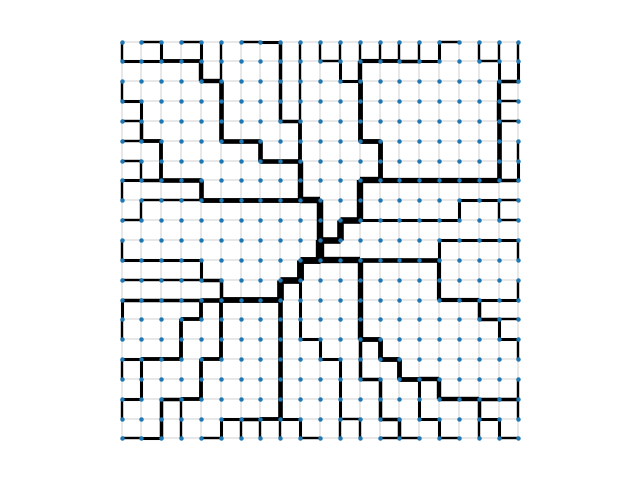
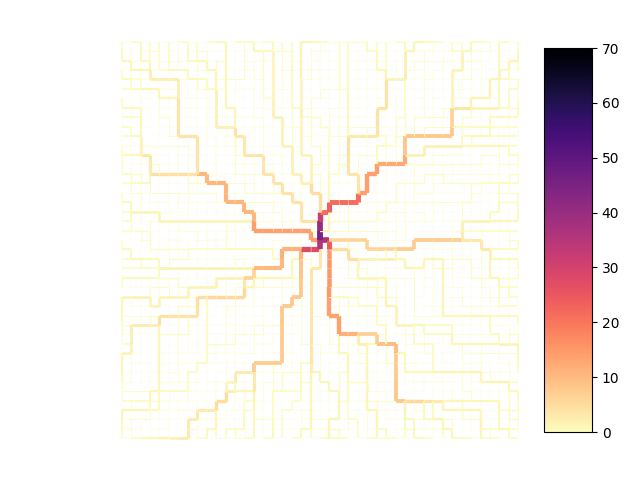
plotting flow with colour bar

Changed region(s): [[0.1875, 0.0625, 0.8125, 0.9375], [0.8438, 0.0938, 0.9688, 0.9062]]

diff --git a/Angiogenesis.py b/Angiogenesis.py
@@ -5,7 +5,7 @@ import matplotlib.pyplot as plt
 import pandas as pd
 import time
 import scipy
-import matplotlib
+import matplotlib as mpl
 import seaborn as sns
 from bokeh.io import export_png, export_svgs
 from bokeh.models import ColumnDataSource, DataTable, TableColumn
@@ -308,7 +308,6 @@ def energy_functional(conductivity_list, length_list, flow_list, gamma, show_res
 
     # checking cost constraint = sum over edges L * K^(1/gamma - 1)
     constraint = np.sum(length_list * np.float_power(conductivity_list, (1/gamma - 1)))
-    # what does it mean when it's not constant?
 
     if show_result:
         print("Energy: ", energy)
@@ -352,7 +351,7 @@ def run_simulation(source_value, m, pos, nodes_data, edges_data, x, x_dagger, in
     for n in range(1, N+1):
         t += dt
 
-        if n!= 0 and n!= N and n == N/16 or n == (2*N)/16 or n == (3*N)/16 or n == N/4 or n == N/2 or n == (3*N)/4:
+        if n != 0 and n != N and n == N/16 or n == (2*N)/16 or n == (3*N)/16 or n == N/4 or n == N/2 or n == (3*N)/4:
             draw_graph(graph, f"graph_at_{n/N}", pos, conductivity_list, m)
             energy_functional(conductivity_list, length_list, flow_list, gamma, show_result=True)
             print("Sum of conductivity: ", np.sum(conductivity_list))
@@ -419,15 +418,20 @@ def draw_graph(graph, name, pos, conductivity_list, n):
         nx.draw_networkx_nodes(graph, pos=pos, node_size=400/(n))
         nx.draw_networkx_edges(graph, pos=pos, width=np.float_power(conductivity_list, 1/4)*2)  #, edge_color=flow_list   + np.ones(len(conductivity_list))  np.float_power(conductivity_list, 4)
     else:
-        #nx.draw_networkx(graph, pos=pos)
-        nx.draw_networkx_nodes(graph, pos=pos, node_size=200 / (2 * n))
-        nx.draw_networkx_edges(graph, pos=pos, width=np.float_power(conductivity_list, 1/4)*2)
+        #nx.draw_networkx_nodes(graph, nodelist=(n-1, n-1), pos=pos, node_size=100 / (2 * n), node_color='black')
+        nc = nx.draw_networkx_edges(graph, pos=pos, width=np.float_power(conductivity_list, 1/4)*1.5, edge_color=conductivity_list ,edge_cmap=plt.cm.magma_r, edge_vmin=0, edge_vmax=100)
 
+    #ax = plt.subplot()
+    #im = ax.imshow(np.arange(100).reshape((10, 10)))
     plt.axis('off')
     plt.axis('scaled')
     plt.subplots_adjust(top=1, bottom=0, right=1, left=0,
                         hspace=0, wspace=0)
     plt.margins(0, 0)
+    plt.tight_layout(pad=0)
+    norm = mpl.colors.Normalize(vmin=0, vmax=70)
+    cax = plt.axes([0.85, 0.1, 0.075, 0.8])
+    plt.colorbar(mpl.cm.ScalarMappable(norm=norm, cmap=plt.cm.magma_r), cax=cax)
     plt.savefig("%s.png" % name, bbox_inches=0)
     plt.clf()
     #plt.show()

diff --git a/Simulation.py b/Simulation.py
@@ -7,7 +7,7 @@ start_time = time.time()
 
 hexagonal = 0
 triangular = 0
-m = 21
+m = 23
 number_of_nodes = m*m
 #adjacency_matrix = an.generate_random_adjacent_matrix(number_of_nodes)
 # random graph
@@ -45,7 +45,7 @@ print(edges_data)
 print(nodes_data)
 
 # dK/dt = a*(q / q_hat)^(2*gamma) - b * K + c
-parameters_set = {'a': 2.9, 'b': 3.3, 'gamma': 2/3, 'delta': 2.01, 'nu': 1.1, 'flow_hat': 0.3, 'c': 0.0001, 'r': 1.7, 'dt': 0.1, 'N': 200}
+parameters_set = {'a': 2.1, 'b': 3.1, 'gamma': 2/3, 'delta': 2.01, 'nu': 1.1, 'flow_hat': 0.3, 'c': 0.0001, 'r': 2.7, 'dt': 0.05, 'N': 32}
 
 graph, conductivity_list = an.run_simulation(source_value, m, pos, nodes_data, edges_data, **arguments, **parameters_set, is_scaled=True, with_pruning=False)
 print(edges_data)
